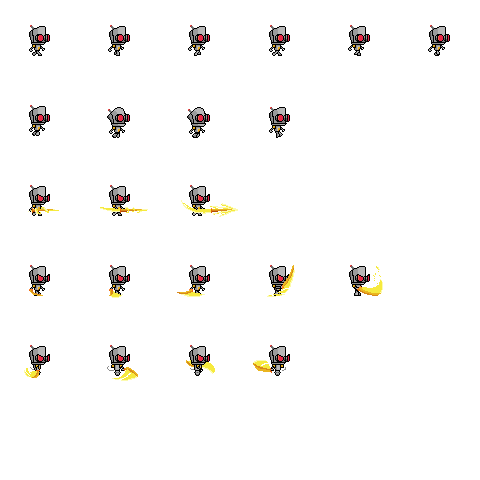
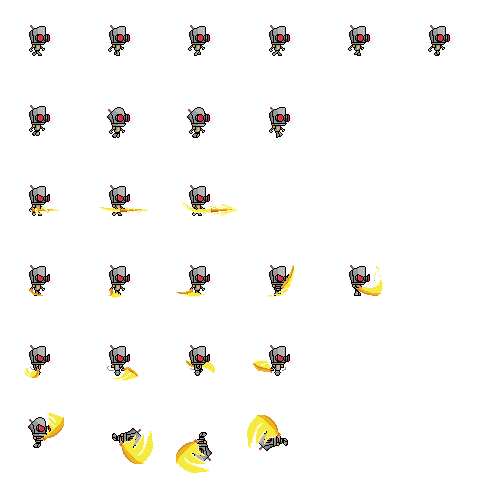
changes

diff --git a/GdxTutorial/core/src/entities/Player.java b/GdxTutorial/core/src/entities/Player.java
@@ -44,10 +44,11 @@ public class Player extends Sprite {
 	Animation<TextureRegion> attackingAnim;
 	Animation<TextureRegion> attackingAnim2;
 	Animation<TextureRegion> attackingAnim3;
+	Animation<TextureRegion> airAttackAnim;
 	
 	TextureRegion currentFrame;
 	Texture robo = new Texture(Gdx.files.internal("Player/robo.png"));
-	Texture life = new Texture(Gdx.files.internal("Player/vida.png"));
+	public Texture life = new Texture(Gdx.files.internal("Player/vida.png"));
 	TextureRegion[][] roboSheet = TextureRegion.split(robo, 80, 80);
 	TextureRegion[] correndo = new TextureRegion[6];
 	TextureRegion[] parado = new TextureRegion[1];
@@ -56,6 +57,7 @@ public class Player extends Sprite {
 	TextureRegion[] attacking = new TextureRegion[3];
 	TextureRegion[] attacking2 = new TextureRegion[5];
 	TextureRegion[] attacking3 = new TextureRegion[4];
+	TextureRegion[] airAttack = new TextureRegion[4];
 
 	public Player(float x, float y, float w, float h, double g, double vX, double vY, Platform[] platforms) {
 		rect = new Rectangle(x, y, w, h);
@@ -86,6 +88,9 @@ public class Player extends Sprite {
 		for(int k=0; k < 3; k++) {
 			morrendo[k] = roboSheet[1][k + 2];
 		}
+		for(int a=0; a < 4; a++) {
+			airAttack[a] = roboSheet[5][a];
+		}
 		parado[0] = roboSheet[0][1];
 		
 		correndoAnim = new Animation<TextureRegion>(0.09f, correndo);
@@ -95,6 +100,7 @@ public class Player extends Sprite {
 		attackingAnim = new Animation<TextureRegion>(0.06f, attacking);
 		attackingAnim2 = new Animation<TextureRegion>(0.06f, attacking2);
 		attackingAnim3 = new Animation<TextureRegion>(0.08f, attacking3);
+		airAttackAnim = new Animation<TextureRegion>(0.05f, airAttack);
 		
 	}
  
@@ -136,7 +142,6 @@ public class Player extends Sprite {
 			tiro.isAlive = false;
 			tiro.drawFlash = false;
 		}
-		sb.draw(life, rect.x - 300, rect.y + 200, vida, 30);
 		if(animState == "parado") {
 			if(facing == "direita") {
 				stateTime += Gdx.graphics.getDeltaTime();
@@ -223,6 +228,18 @@ public class Player extends Sprite {
 				sb.draw(currentFrame, this.rect.x + this.rect.width - spriteAdjustmentX, this.rect.y + spriteAdjustmentY, -spriteLargura, spriteAltura);
 			}
 		}
+		else if(animState == "airAttack") {
+			if(facing == "direita") {
+				stateTime += Gdx.graphics.getDeltaTime();
+				currentFrame = airAttackAnim.getKeyFrame(stateTime, true);
+				sb.draw(currentFrame, this.rect.x + spriteAdjustmentX, this.rect.y + spriteAdjustmentY, spriteLargura, spriteAltura);
+			}
+			else {
+				stateTime += Gdx.graphics.getDeltaTime();
+				currentFrame = airAttackAnim.getKeyFrame(stateTime, true);
+				sb.draw(currentFrame, this.rect.x + this.rect.width - spriteAdjustmentX, this.rect.y + spriteAdjustmentY, -spriteLargura, spriteAltura);
+			}
+		}
 		else {
 			stateTime = 0;
 		}
@@ -250,27 +267,36 @@ public class Player extends Sprite {
         }
         else if(keyCode == Input.Keys.F) {
         	isAttacking = true;
-        	if(animState == "attacking") {
-        		attackCount = 0;
-        		stateTime = 0;
-        		attackLimit = 25;
-        		widthLimit = 15;
-        		animState = "attacking2";
+        	if(animState != "jumping") {
+        		if(animState == "attacking") {
+            		attackCount = 0;
+            		stateTime = 0;
+            		attackLimit = 25;
+            		widthLimit = 15;
+            		animState = "attacking2";
+            	}
+            	else if(animState == "attacking2") {
+            		attackCount = 0;
+            		attackLimit = 70;
+            		stateTime = 0;
+            		widthLimit = 10;
+            		animState = "attacking3";
+            	}
+            	else{
+            		attackCount = 0;
+            		stateTime = 0;
+            		attackLimit = 25;
+            		widthLimit = 25;
+            		animState = "attacking";
+            	}
         	}
-        	else if(animState == "attacking2") {
+        	else {
         		attackCount = 0;
         		attackLimit = 70;
         		stateTime = 0;
-        		widthLimit = 10;
-        		animState = "attacking3";
+        		animState = "airAttack";
         	}
-        	else{
-        		attackCount = 0;
-        		stateTime = 0;
-        		attackLimit = 25;
-        		widthLimit = 25;
-        		animState = "attacking";
-        	}
+        	
         }
         else if(keyCode == Input.Keys.I) {
         	if(!tiro.isAlive && tiroCooldown > 60) {

diff --git a/GdxTutorial/core/src/levels/Level1.java b/GdxTutorial/core/src/levels/Level1.java
@@ -200,10 +200,13 @@ public class Level1 extends ScreenAdapter {
 	  game.batch.begin();
 	  game.batch.draw(fundo, -288 , -210);
 	  //game.batch.draw(portaElevador, -129 , 100);
+	  p1.draw(game.batch);
+	  
 	  game.batch.draw(vidro, 52 , 718);
 	  for(int e=0; e < cientistas.length; e++) {
 		  cientistas[e].update(game.batch);
 	  }
+	  game.batch.draw(p1.life, p1.rect.x - 300, p1.rect.y + 200, p1.vida, 30);
 	  //game.batch.draw(idle,  p1.rect.x, p1.rect.y, 35, 35);
 	  game.batch.end();
 	  game.shapeRenderer.setProjectionMatrix(camera.combined);
@@ -212,7 +215,6 @@ public class Level1 extends ScreenAdapter {
 	  //game.shapeRenderer.rect(p1.rect.x, p1.rect.y, p1.rect.width + p1.widthLimit, p1.rect.height);
 	  game.shapeRenderer.end();
 	  game.batch.begin();
-	  p1.draw(game.batch);
 	  game.batch.end();
 	  
 	  

diff --git a/GdxTutorial/core/src/levels/Level2.java b/GdxTutorial/core/src/levels/Level2.java
@@ -136,7 +136,7 @@ public class Level2 extends ScreenAdapter {
 	}
 	p1.update(game);
 	
-    camera.position.set(p1.rect.x + (p1.rect.width / 2), p1.rect.y  + (p1.rect.width / 2), 0);
+    camera.position.set(p1.rect.x + (p1.rect.width / 2) + 100,  220, 0);
 	camera.update();
 	
 	this.draw();
@@ -172,6 +172,7 @@ public class Level2 extends ScreenAdapter {
 	  prx1.parallax(game, p1);
 	  game.batch.draw(fundo, 3 , 20);
 	  p1.draw(game.batch);
+	  game.batch.draw(p1.life, p1.rect.x - 300,  350, p1.vida, 30);
 	  //game.batch.draw(idle,  p1.rect.x, p1.rect.y, 35, 35);
 	  game.batch.end();
 	 

diff --git a/GdxTutorial/core/src/platforms/Platform.java b/GdxTutorial/core/src/platforms/Platform.java
@@ -40,11 +40,11 @@ public class Platform {
     	    	ply.rect.y = rect.y + rect.height;
     	    	ply.gravity = 0;
     	    	ply.jumpCount = 0;
-    	    	if(ply.velX == 0 && !ply.isAttacking) {
+    	    	if(ply.velX == 0 && !ply.isAttacking || ply.animState == "airAttack") {
     				ply.animState = "parado";
     			}
     			else {
-    				if(!ply.isAttacking)ply.animState = "running";
+    				if(!ply.isAttacking || ply.animState == "airAttack")ply.animState = "running";
     			}
     	    }
     	   

diff --git a/GdxTutorial/core/src/entities/cientistas/Cientista.java b/GdxTutorial/core/src/entities/cientistas/Cientista.java
@@ -78,7 +78,7 @@ public class Cientista extends Sprite {
 				Rectangle p1Rect = new Rectangle(ply.rect);
 				p1Rect.width = ply.rect.width + ply.widthLimit;
 				if(ply.facing == "esquerda")p1Rect.x = ply.rect.x - ply.widthLimit;
-				sb.draw(teste, ply.rect.x, ply.rect.y, p1Rect.width, ply.rect.height);
+				//sb.draw(teste, ply.rect.x, ply.rect.y, p1Rect.width, ply.rect.height);
 				if(rect.overlaps(p1Rect)) {				
 					vida -= 10;
 					if(vida <= 0) {

diff --git a/GdxTutorial/desktop/src/com/mygdx/game/desktop/DesktopLauncher.java b/GdxTutorial/desktop/src/com/mygdx/game/desktop/DesktopLauncher.java
@@ -11,7 +11,7 @@ public class DesktopLauncher {
 	public static void main (String[] arg) { 
 		
 		LwjglApplicationConfiguration config = new LwjglApplicationConfiguration();
-		config.fullscreen = false;
+		config.fullscreen = true;
 		new LwjglApplication(new MyGdxGame(), config);
 	}
 }
